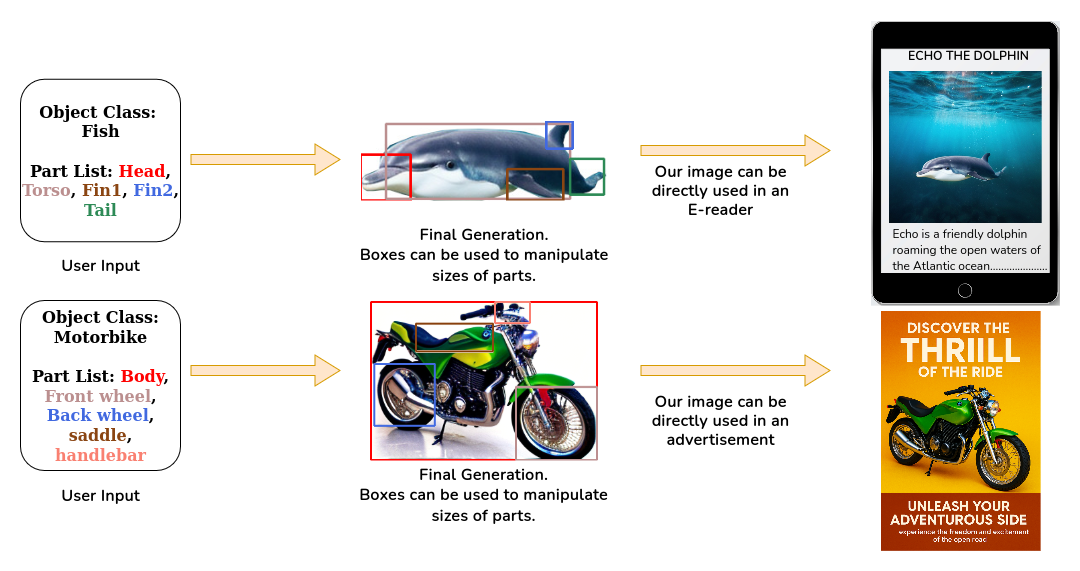
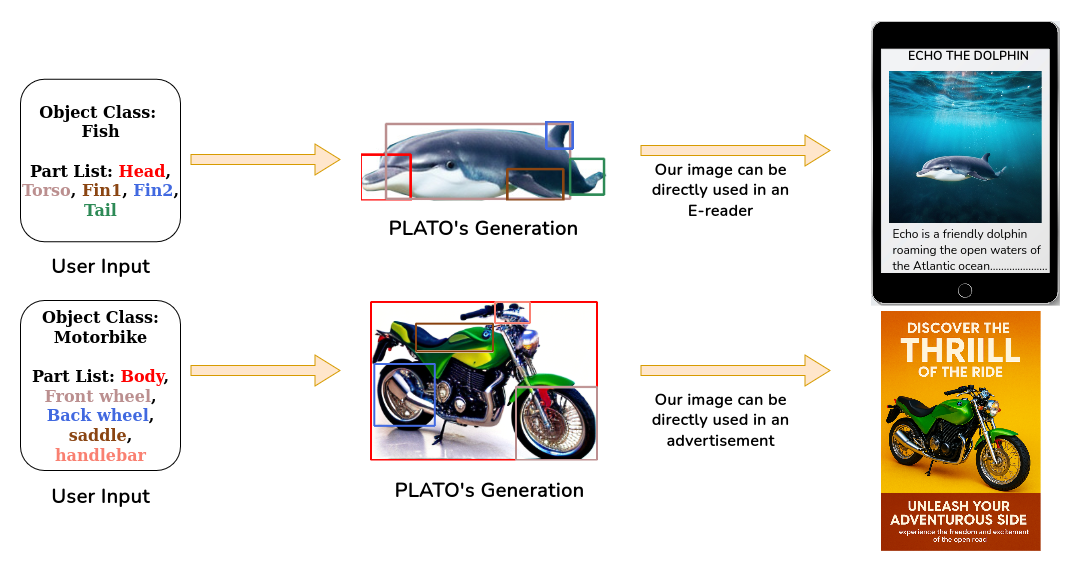
Latest commit

diff --git a/index.html b/index.html
@@ -280,11 +280,10 @@
       <h2 class="title is-4"><font color="#0000ff">Generations with variable part lists</font></h2>
       <img id="teaser" width="95%" src="images/plato_results.png">
       <h1>
-        <p style="font-family:Times New Roman"><b></b>
+        <p style="font-family:Times New Roman"><b>PLATO is able to correctly resolve left/right upper/lower placement for any given part list.</b>
       </h1>           
     </div>
   </div>
-
   <br>
   <br>
   <br>
@@ -295,7 +294,7 @@
       <h2 class="title is-4"><font color="#0000ff">PLATO's applications</font></h2>
       <img id="teaser" width="95%" src="images/plato_applications.png">
       <h1>
-        <p style="font-family:Times New Roman"><b>Since the image is created using an inpainting pipeline, PLATO's generations can be directly added to scenes.</b>
+        <p style="font-family:Times New Roman"><b>PLATO's generations can be directly added to scenes since it uses an inpainting pipeline for image generation.</b>
       </h1>                 
     </div>
   </div>
